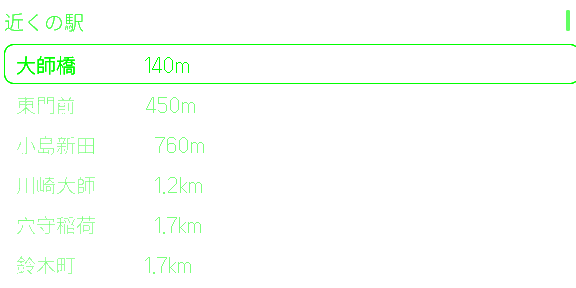
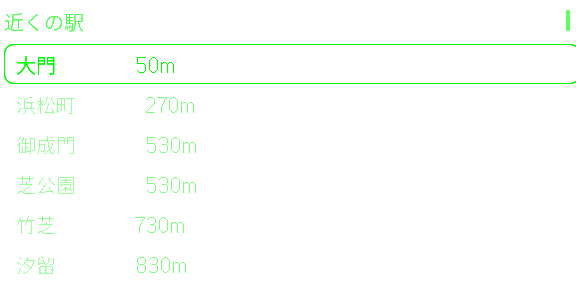
例に使う座標を大門に統一する
ドキュメント・テスト・撮影手順に実際の生活圏の座標が入っていた。
リポジトリは public なので、基準点を都心の駅に移す。

大門（都営浅草線・大江戸線）を選んだ理由は、チャレンジ限定ライセンスが
2027-03-12 で切れても基本ライセンスだけで同じ画が撮れること。周辺に
駅が多く、駅選択の画面も成立する。

スクリーンショットも撮り直した。起動後のコンソールエラーは 0 件。

diff --git a/test/resume.test.ts b/test/resume.test.ts
@@ -43,10 +43,13 @@ function station(id: string, name: string, lat: number, lng: number): MasterStat
   };
 }
 
-// 実機で問題が出た配置。自宅から大師橋 142m、西馬込 6.4km。
-const HOME = { lat: 35.536, lng: 139.73955 };
-const DAISHIBASHI = station('daishibashi', '大師橋', 35.5372, 139.7385);
-const NISHIMAGOME = station('nishimagome', '西馬込', 35.5852, 139.7107);
+/**
+ * 実機で出た問題と同じ配置を、基本ライセンスだけで成り立つ場所に置き換えたもの。
+ * 目の前に駅があるのに、前回選んだ遠い駅が復元され続ける、という状況。
+ */
+const HOME = { lat: 35.6569, lng: 139.7547 };
+const NEAR_STATION = station('daimon', '大門', 35.6569, 139.7547);
+const FAR_STATION = station('kasuga', '春日', 35.709, 139.7529);
 const OPTIONS = { resumeRadius: 500, maxExtraMeters: 500 };
 
 describe('前回の選択を復元するか', () => {
@@ -55,8 +58,8 @@ describe('前回の選択を復元するか', () => {
     // 距離だけで判断すると、同じ場所にいる限り遠い駅が復元され続ける
     const resume = shouldResume(
       HOME,
-      { ...HOME, stationId: NISHIMAGOME.id },
-      [DAISHIBASHI, NISHIMAGOME],
+      { ...HOME, stationId: FAR_STATION.id },
+      [NEAR_STATION, FAR_STATION],
       OPTIONS,
     );
     assert.equal(resume, false);
@@ -65,8 +68,8 @@ describe('前回の選択を復元するか', () => {
   it('その駅が最寄りなら復元する', () => {
     const resume = shouldResume(
       HOME,
-      { ...HOME, stationId: DAISHIBASHI.id },
-      [DAISHIBASHI, NISHIMAGOME],
+      { ...HOME, stationId: NEAR_STATION.id },
+      [NEAR_STATION, FAR_STATION],
       OPTIONS,
     );
     assert.equal(resume, true);
@@ -76,16 +79,16 @@ describe('前回の選択を復元するか', () => {
     const faraway = { lat: 35.68, lng: 139.76 };
     const resume = shouldResume(
       faraway,
-      { ...HOME, stationId: DAISHIBASHI.id },
-      [DAISHIBASHI, NISHIMAGOME],
+      { ...HOME, stationId: NEAR_STATION.id },
+      [NEAR_STATION, FAR_STATION],
       OPTIONS,
     );
     assert.equal(resume, false);
   });
 
   it('少しだけ遠い駅なら復元する（乗り換えの都合で隣駅を使うことがある）', () => {
-    const nearby = station('near', '近い駅', 35.5365, 139.7397);
-    const slightly = station('slightly', 'やや遠い駅', 35.5382, 139.7402);
+    const nearby = station('near', '近い駅', 35.6569, 139.7547);
+    const slightly = station('slightly', 'やや遠い駅', 35.6569 + 0.0022, 139.7547 + 0.0005);
     const resume = shouldResume(
       HOME,
       { ...HOME, stationId: slightly.id },
@@ -98,8 +101,8 @@ describe('前回の選択を復元するか', () => {
   it('候補が 1 駅しかなければ復元する', () => {
     const resume = shouldResume(
       HOME,
-      { ...HOME, stationId: NISHIMAGOME.id },
-      [NISHIMAGOME],
+      { ...HOME, stationId: FAR_STATION.id },
+      [FAR_STATION],
       OPTIONS,
     );
     assert.equal(resume, true);

diff --git a/app/src/main.ts b/app/src/main.ts
@@ -222,7 +222,7 @@ function createOdptClient(): OdptClient {
 }
 
 /**
- * URL で指定された現在地。`?lat=35.536&lng=139.7395`
+ * URL で指定された現在地。`?lat=35.6569&lng=139.7547`
  *
  * シミュレータは位置情報 API を持たない（getAppLocation は
  * unknown variant で失敗する）ので、審査用のスクリーンショットも

diff --git a/assets/screenshots/README.md b/assets/screenshots/README.md
@@ -7,9 +7,12 @@
 
 ```bash
 npm run app:dev
-npx evenhub-simulator "http://localhost:5175/?lat=35.536&lng=139.73955" --automation-port 9898
+npx evenhub-simulator "http://localhost:5175/?lat=35.6569&lng=139.7547" --automation-port 9898
 curl -o shot.png http://127.0.0.1:9898/api/screenshot/glasses
 ```
+
+座標は**大門**（都営浅草線・大江戸線）。チャレンジ限定ライセンスが
+2027-03-12 で切れても、基本ライセンスだけで同じ画が撮れる場所を選んでいる。
 
 `?lat=&lng=` で現在地を渡している。**シミュレータは位置情報 API を持たない**
 （`getAppLocation` は unknown variant で失敗する）ため、これがないと
@@ -31,7 +34,7 @@ magick 03-countdown.png -background black -alpha remove -alpha off view.png
 
 | ファイル | 画面 |
 | --- | --- |
-| 01-stations.png | 近くの駅（大師橋 140m） |
+| 01-stations.png | 近くの駅（大門 50m） |
 | 02-directions.png | 方面の選択 |
 | 03-countdown.png | カウントダウン（主画面） |
 | 04-menu.png | コンテキストメニュー |
